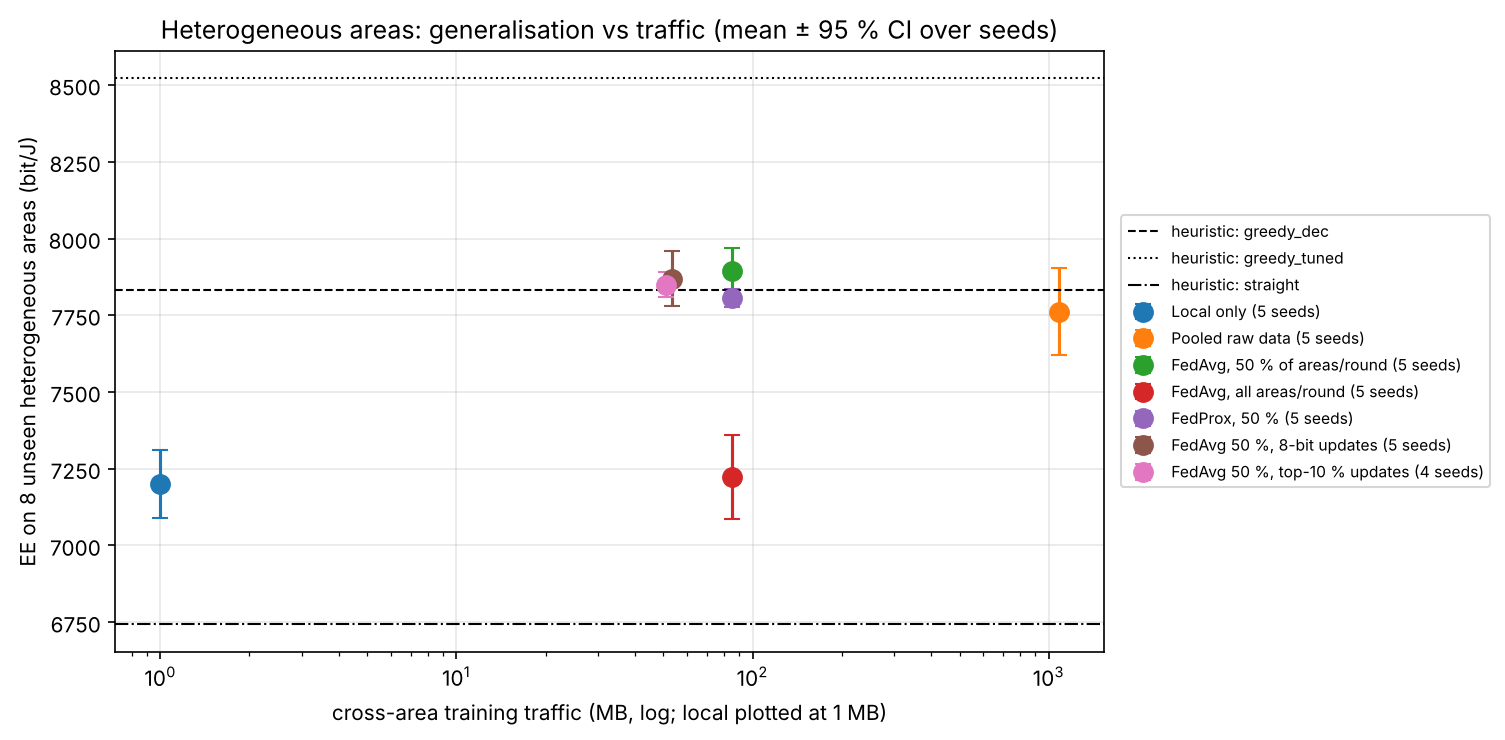
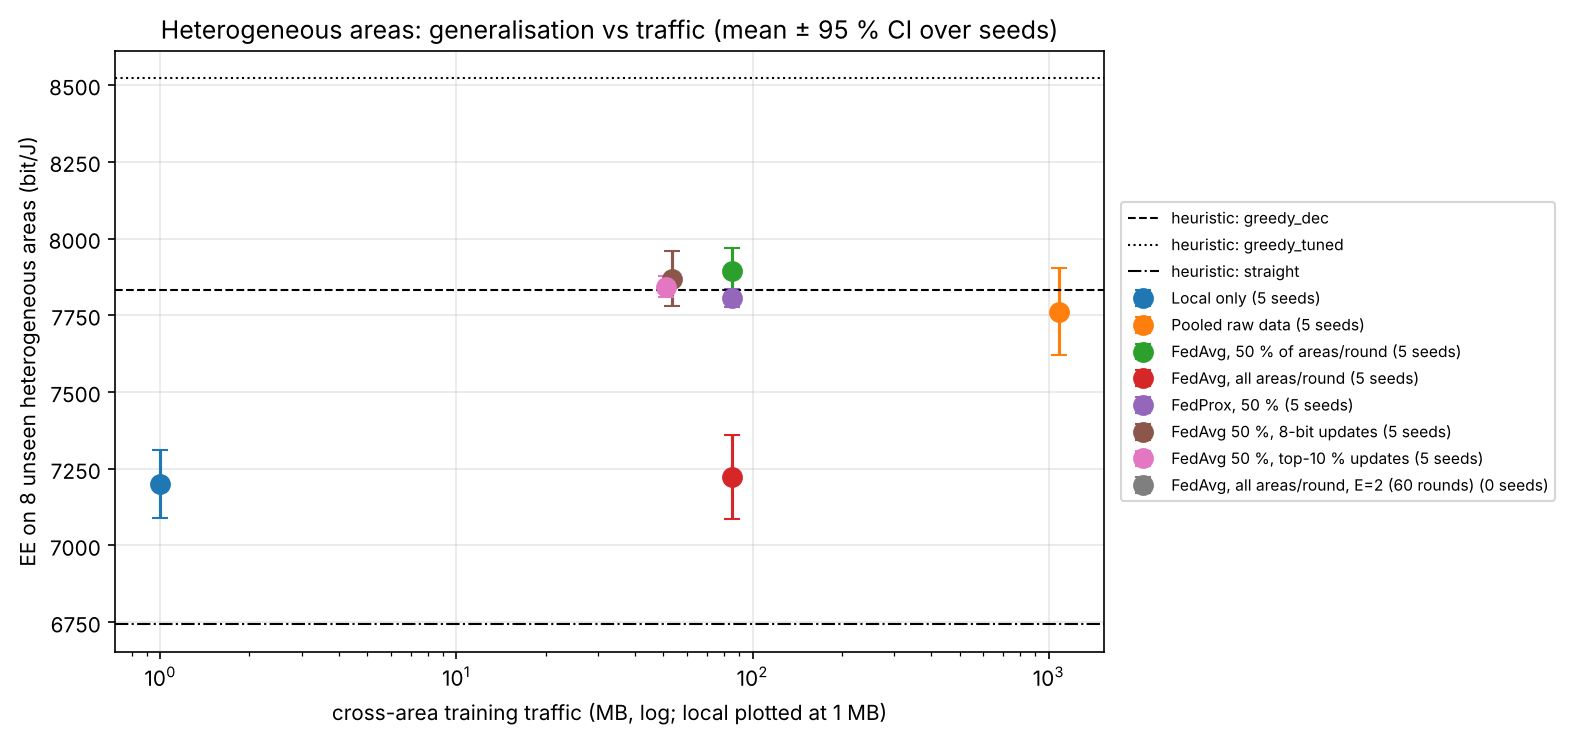
docs: v9.2 heterogeneous FL and few-shot adaptation results
Claude-Session: https://claude.ai/code/session_019AT5ngwrNSJJrMB93Av9qi

diff --git a/docs/v9_results.md b/docs/v9_results.md
@@ -206,6 +206,65 @@ from *different* areas — which FedAvg obtains without moving raw data.
 
 ---
 
+## 4b. Heterogeneous (non-IID) multi-area FL with partial participation (v9.2)
+
+(`results_v9/fedhet/`, `fig_fedhet.png`, `summary.json`; code `v9/fedhet.py`.) The harder,
+more realistic FL setting:
+
+- **12 training areas (clients)** that differ in layout *and* deployment — 15–31 devices,
+  data per device × 0.6–1.5, device power 6–14 dBm, RIS 10 × 10 to 20 × 20
+  (`config.hetero_area`); 4 validation and **8 unseen test areas** drawn the same way.
+  The decentralised heuristic's EE varies from 7,030 to 8,790 bit/J across the test areas
+  (straight line: 5,896–7,814).
+- **Partial participation:** each round the cloud samples 50 % of the areas; they start from
+  the global actor, run E = 4 local MAPPO-CTDE updates and upload their update.
+- **Equal budget:** every mode uses the same 11,520 training missions in total.
+- **Compressed uploads:** 8-bit quantised updates, or top-10 % sparsified updates with
+  client-side error feedback.
+
+| Mode (5 seeds, 96 test missions on 8 unseen areas) | EE (bit/J) | Cross-area traffic |
+|---|---|---|
+| Local only (mean of the 12 area models) | 7,200 ± 111 | 0 |
+| Pooled raw data | 7,761 ± 142 | 1,081 MB |
+| **FedAvg, 50 % of areas per round** | **7,895 ± 73** | **85 MB** |
+| FedAvg 50 %, 8-bit updates | 7,869 ± 90 | 53 MB |
+| FedAvg 50 %, top-10 % updates | 7,844 ± 33 | 51 MB |
+| FedProx (μ = 0.01), 50 % | 7,807 ± 29 | 85 MB |
+| FedAvg, all 12 areas per round (30 rounds) | 7,223 ± 138 | 85 MB |
+| *heuristic: centralised greedy (tuned on the heterogeneous validation areas)* | *8,522 ± 224* | — |
+| *heuristic: decentralised greedy* | *7,832 ± 212* | — |
+| *heuristic: straight line* | *6,743 ± 194* | — |
+
+Paired by seed:
+- **FedAvg (50 %) − local: +695 ± 108 bit/J (+9.7 %), 5 of 5 seeds** — with non-IID areas the
+  benefit of federating is twice as large as in §4 (+4.9 %).
+- FedAvg (50 %) − pooled: +134 ± 193 bit/J (+1.7 %, not significant; 4 of 5 seeds) — FedAvg is
+  **at least as good as pooling all raw data**, with 13× less cross-area traffic.
+- 8-bit / top-10 % uploads − full precision: −26 ± 122 / −51 ± 69 bit/J (−0.3 / −0.7 %, not
+  significant) for **38–40 % less cross-area traffic**.
+- FedProx − FedAvg: −87 ± 80 bit/J (−1.1 %, 0 of 5 seeds better): the proximal term does not
+  help here.
+- All areas per round − 50 %: −672 ± 149 bit/J (−8.5 %, 0 of 5 seeds). At the same budget,
+  full participation means half as many averaging rounds (30 vs 60). ROUNDS_CONTROL
+- Local area models violate the separation rule more often (1.39 per mission vs 0.00–0.09 for
+  every federated variant): the federated model is also the safer one.
+
+**Few-shot adaptation in a new area** (`fedhet/finetune/`). Each unseen area's ground station
+adapts a model using only its own 320 missions (40 PPO updates; for the federated model the
+fresh critic is first trained alone for 8 updates):
+
+| Starting point (5 seeds, mean over the 8 unseen areas) | before | after 320 missions |
+|---|---|---|
+| **global FedAvg model** | 7,895 ± 73 | **7,998 ± 56** |
+| random initialisation (training from scratch) | 4,669 ± 23 | 6,884 ± 41 |
+
+- Starting from the federated model is **+1,114 ± 56 bit/J (+16.2 %) better** than training
+  from scratch on the same missions (5 of 5 seeds): a new area is useful from the first
+  mission instead of after thousands.
+- After adaptation the learned policy is above the decentralised heuristic in every seed
+  (7,949–8,071 vs 7,832, +2.1 % on average — modest, within the heuristic's per-mission
+  spread) and still below the centralised full-information heuristic (8,522).
+
 ## 5. Where should the RIS be? (learned flight vs heuristics)
 
 (`results_v9/fig_ris_value.png`)
